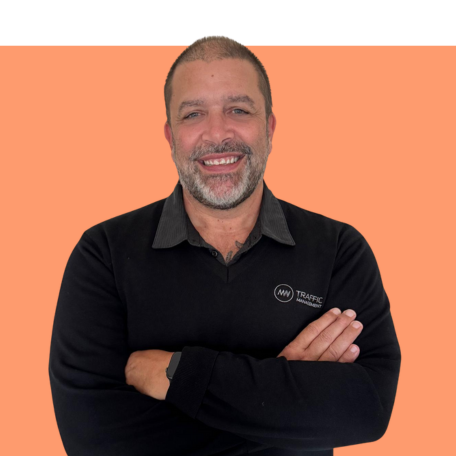
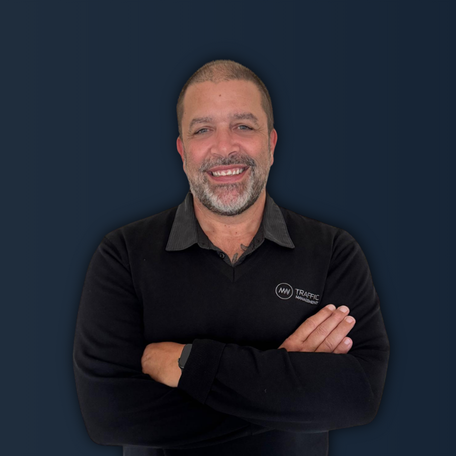
leadership cards work

diff --git a/app/about-us/page.tsx b/app/about-us/page.tsx
@@ -61,14 +61,14 @@ const leadership = [
 ]
 
 const leadershipImages: Record<string, string> = {
-  'Dean Hyde': '/leadership/dean_hyde_new.png',
-  'Esther Hyde': '/leadership/esther_hyde_new.png',
-  'Hayden Wilson': '/leadership/hayden_wilson_new.png',
-  'Nathan Jones': '/leadership/nathan_jones_new.png',
-  'Daniel Adams': '/leadership/daniel_adams_new.png',
-  'Kurt Puryer-Smith': '/leadership/kurt_puryersmith_v2.png',
-  'Brock Vuleta': '/leadership/brock_vuleta_new.png',
-  'Royden van Dyk': '/leadership/royden_vandyk.png',
+  'Dean Hyde': '/leadership/dean_hyde.png',
+  'Esther Hyde': '/leadership/esther_hyde.png',
+  'Hayden Wilson': '/leadership/hayden_wilson.png',
+  'Nathan Jones': '/leadership/nathan_jones.png',
+  'Daniel Adams': '/leadership/daniel_adams.png',
+  'Kurt Puryer-Smith': '/leadership/kurt_puryersmith.png',
+  'Brock Vuleta': '/leadership/brock_vuleta.png',
+  'Royden van Dyk': '/leadership/pete_manahi.png',
 }
 
 /* ── Page ── */
